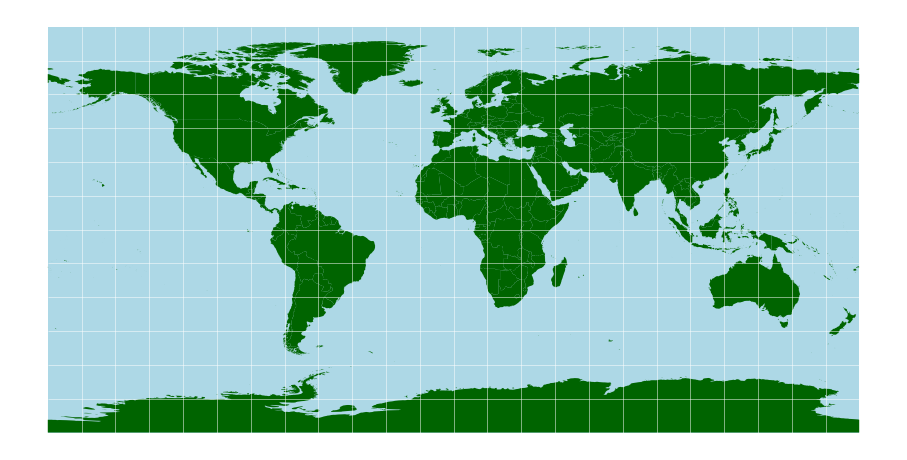
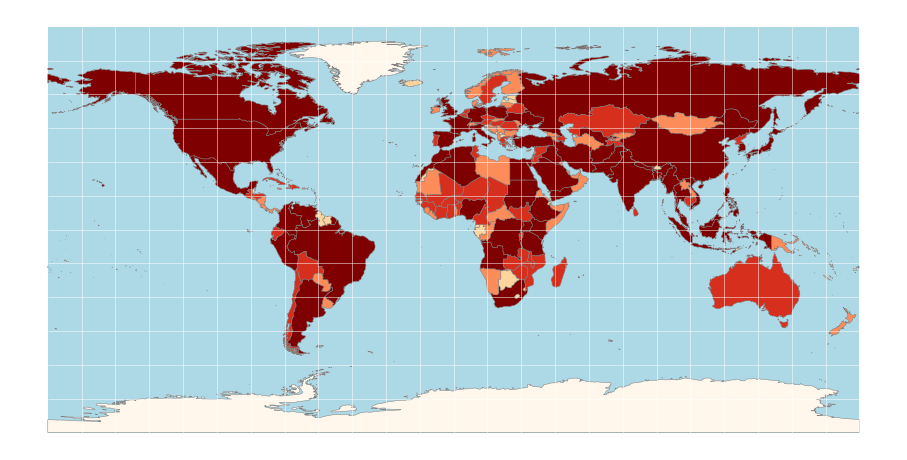
week1/out/1.png

diff --git a/week1/week1.py b/week1/week1.py
@@ -2,6 +2,7 @@ from geopandas import read_file
 from matplotlib.pyplot import subplots, savefig
 
 world = read_file("../../data/natural-earth/ne_50m_admin_0_countries.shp")
+print(world.columns)
 graticule = read_file("../../data/natural-earth/ne_110m_graticules_15.shp")
 bbox = read_file("../../data/natural-earth/ne_110m_wgs84_bounding_box.shp")
 
@@ -18,10 +19,13 @@ bbox.plot(
     )
 
 # plot the countries
-world.plot(
-    ax = my_ax,
-    color = 'darkgreen',
-    linewidth = 0.5,
+world.plot(								# plot the world dataset
+    ax = my_ax,						# specify the axis object to draw it to
+    column = 'POP_EST',		# specify the column used to style the dataset
+    cmap = 'OrRd',				# specify the colour map used to style the dataset based on POP_EST
+    scheme = 'quantiles',	# specify how the colour map will be mapped to the values in POP_EST
+    linewidth = 0.5,			# specify the line width for the country outlines
+    edgecolor = 'gray',		# specify the line colour for the country outlines
     )
 
 # plot the graticule
@@ -35,4 +39,4 @@ graticule.plot(
 my_ax.axis('off')
 # save the result
 savefig('week1/out/1.png')
-print("done!")
+print("done!") 
